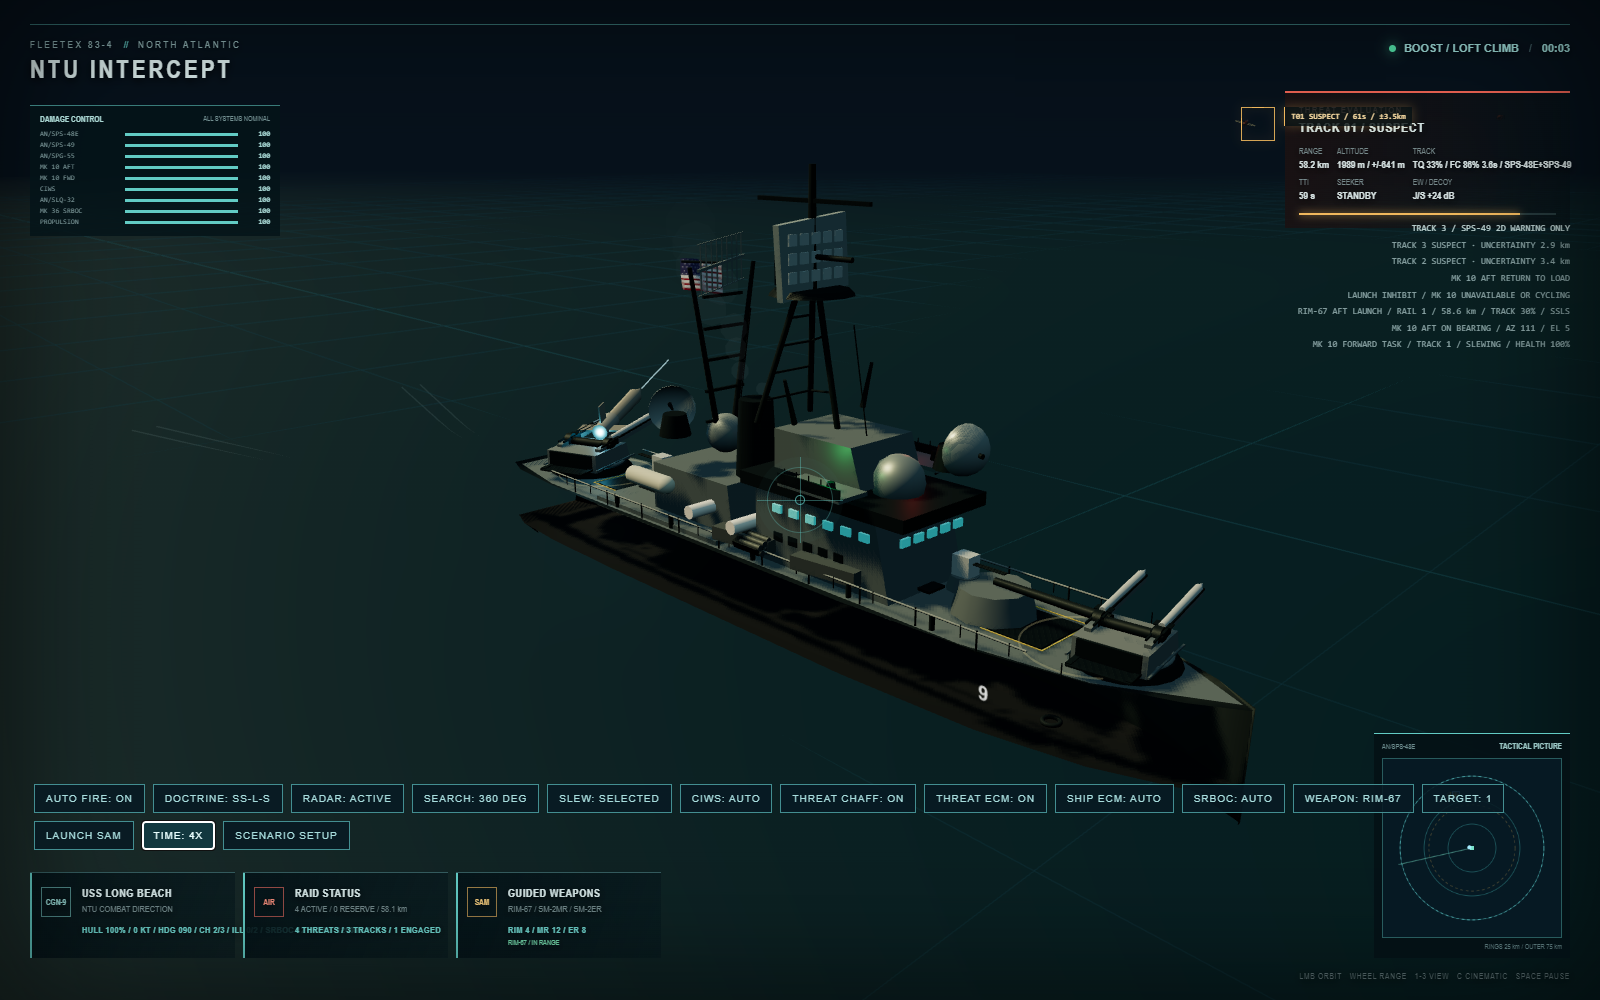
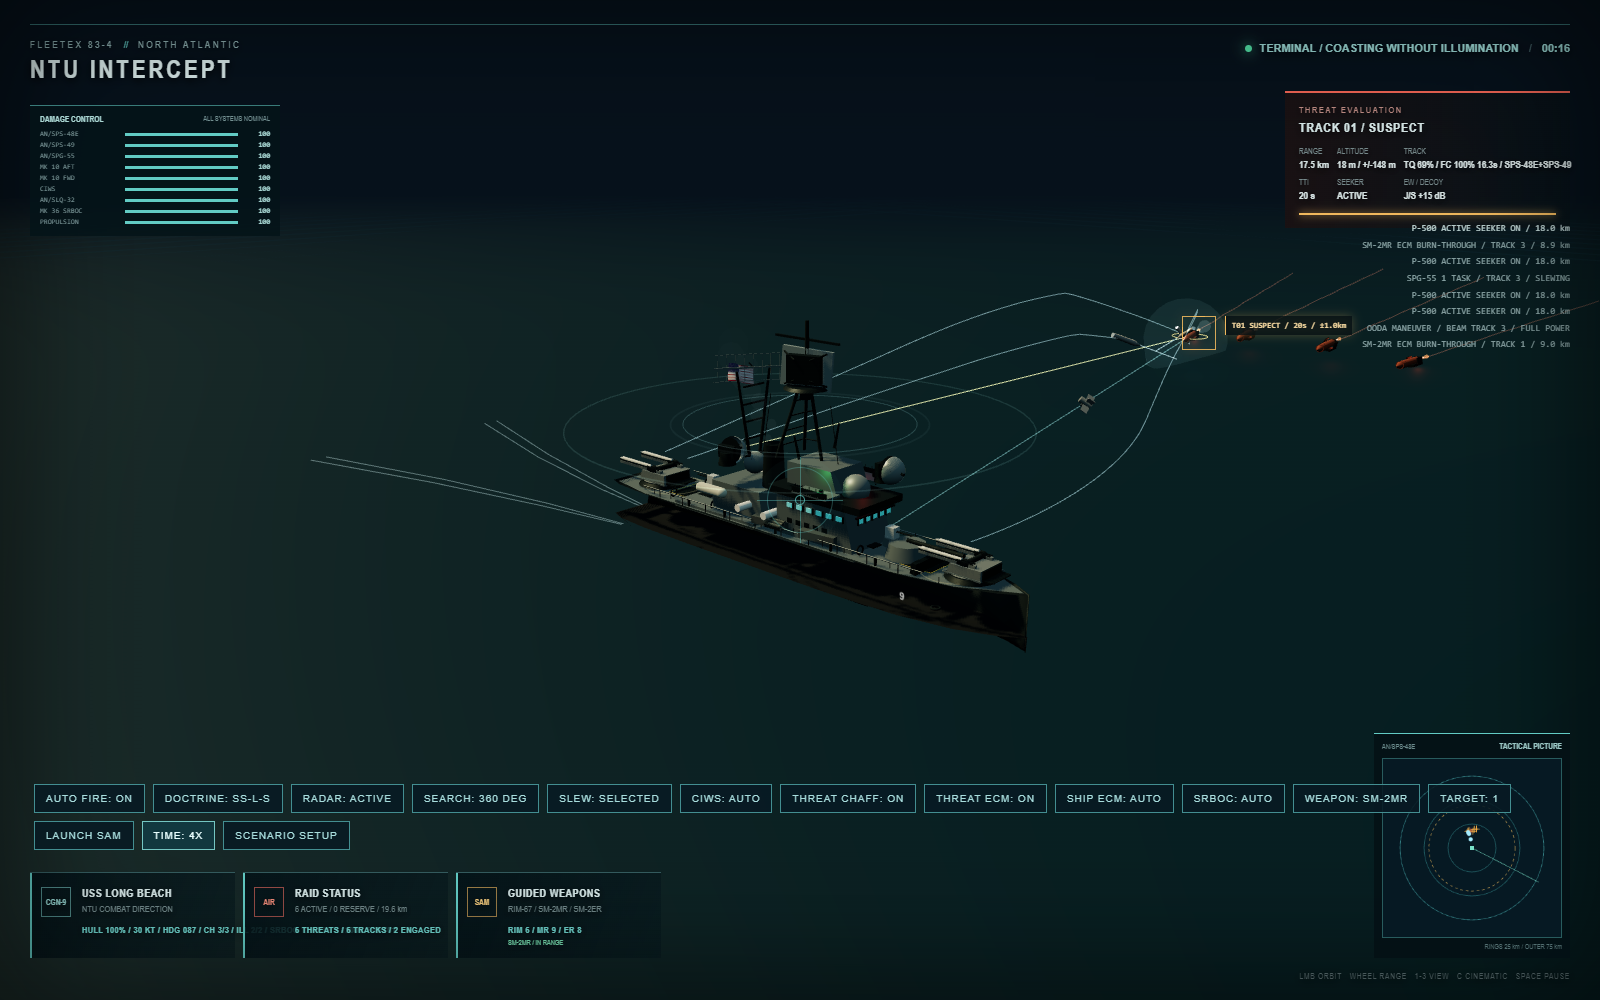
Improve ship sensors and tracking animations

diff --git a/src/main.ts b/src/main.ts
@@ -68,11 +68,11 @@ function ship(color:number,scale=1){
  const bridgeRoof=new THREE.Mesh(new THREE.BoxGeometry(13,.8,7.2),darkMat); bridgeRoof.position.set(5,11,0); g.add(bridgeRoof);
  const mast=new THREE.Group();const mastFeet=[new THREE.Vector3(-1.4,14.1,-2.25),new THREE.Vector3(-1.4,14.1,2.25),new THREE.Vector3(3.2,14.1,0)],mastCrown=[new THREE.Vector3(.45,22,-.62),new THREE.Vector3(.45,22,.62),new THREE.Vector3(1.55,22,0)];mastFeet.forEach((foot,index)=>addStrut(mast,foot,mastCrown[index],.19,darkMat));for(let y=15.5;y<21.5;y+=1.65){const fraction=(y-14.1)/7.9,port=new THREE.Vector3(THREE.MathUtils.lerp(-1.4,.45,fraction),y,THREE.MathUtils.lerp(-2.25,-.62,fraction)),starboard=new THREE.Vector3(port.x,y,-port.z);addStrut(mast,port,starboard,.075,darkMat);if(Math.round((y-15.5)/1.65)%2===0)addStrut(mast,port,new THREE.Vector3(THREE.MathUtils.lerp(3.2,1.55,fraction),y+.8,0),.07,darkMat);}const mastPlatform=new THREE.Mesh(new THREE.CylinderGeometry(2.25,2.6,.34,12),darkMat);mastPlatform.position.set(1,22,0);mast.add(mastPlatform);const upperMast=new THREE.Mesh(new THREE.CylinderGeometry(.2,.3,7.2,8),darkMat);upperMast.position.set(1,25.5,0);mast.add(upperMast);g.add(mast);
  const yard=new THREE.Mesh(new THREE.BoxGeometry(9,.24,.24),darkMat); yard.position.set(1,27.1,0); g.add(yard);
- const radar=new THREE.Group(); radar.position.set(1,24,0); const dish=new THREE.Mesh(new THREE.BoxGeometry(5.8,4.3,.45),new THREE.MeshStandardMaterial({color:0x9caaa6,metalness:.35,roughness:.52})); dish.rotation.z=.08; radar.add(dish); const backing=new THREE.Mesh(new THREE.BoxGeometry(3.8,3.1,1.1),darkMat);backing.position.z=-.65;radar.add(backing);for(let x=-2;x<=2;x++)for(let y=-1;y<=1;y++){const cell=new THREE.Mesh(new THREE.BoxGeometry(.65,.65,.12),new THREE.MeshStandardMaterial({color:0xc1cbc5,metalness:.3,roughness:.5}));cell.position.set(x,y*1.05,.3);radar.add(cell);} const feed=new THREE.Mesh(new THREE.CylinderGeometry(.16,.16,2.8,8),darkMat);feed.rotation.x=Math.PI/2;feed.position.z=1.6;radar.add(feed);g.add(radar);
+ const radar=new THREE.Group(); radar.position.set(1,24,0); const dish=new THREE.Mesh(new THREE.BoxGeometry(5.8,4.3,.45),new THREE.MeshStandardMaterial({color:0x9caaa6,metalness:.35,roughness:.52})); dish.rotation.z=.08; radar.add(dish); const backing=new THREE.Mesh(new THREE.BoxGeometry(3.8,3.1,1.1),darkMat);backing.position.z=-.65;radar.add(backing);for(let x=-2;x<=2;x++)for(let y=-1;y<=1;y++){const cell=new THREE.Mesh(new THREE.BoxGeometry(.65,.65,.12),new THREE.MeshStandardMaterial({color:0xc1cbc5,metalness:.3,roughness:.5}));cell.position.set(x,y*1.05,.3);radar.add(cell);} const feed=new THREE.Mesh(new THREE.CylinderGeometry(.16,.16,2.8,8),darkMat);feed.rotation.x=Math.PI/2;feed.position.z=1.6;radar.add(feed);for(const side of [-1,1]){addStrut(radar,new THREE.Vector3(side*2.45,-1.75,-.35),new THREE.Vector3(side*.85,-1.1,-1.45),.11,darkMat);addStrut(radar,new THREE.Vector3(side*2.45,1.75,-.35),new THREE.Vector3(side*.85,1.1,-1.45),.11,darkMat);}const radarGearbox=new THREE.Mesh(new THREE.CylinderGeometry(.48,.62,1.4,10),darkMat);radarGearbox.position.set(0,-2.55,-.45);radar.add(radarGearbox);g.add(radar);
  const fireControl=new THREE.Group(); fireControl.position.set(8,12,0); fireControl.add(new THREE.Mesh(new THREE.SphereGeometry(1.6,12,8),new THREE.MeshStandardMaterial({color:0x9ba9a6,metalness:.5,roughness:.45}))); g.add(fireControl);
  // Keep the aft Mk 10 clear of the aft-house/bridge visual envelope.
  const launcher=createMk10Launcher(deckMat,darkMat);launcher.position.set(-23,6.18,0);launcher.rotation.y=Math.PI;g.add(launcher);
- const windowMat=new THREE.MeshStandardMaterial({color:0x75d8d4,emissive:0x164b4a,emissiveIntensity:1.8}); const windows=new THREE.Group();for(let z=-2.3;z<=2.3;z+=1.15){const pane=new THREE.Mesh(new THREE.BoxGeometry(.18,.5,.72),windowMat);pane.position.set(10.58,9.6,z);windows.add(pane);}for(const side of [-1,1])for(let x=1.5;x<=8.5;x+=1.4){const pane=new THREE.Mesh(new THREE.BoxGeometry(.72,.5,.18),windowMat);pane.position.set(x,9.6,side*3.33);windows.add(pane);}g.add(windows);
+ const windowMat=new THREE.MeshStandardMaterial({color:0x75d8d4,emissive:0x164b4a,emissiveIntensity:1.8}); const windows=new THREE.Group();for(let z=-2.3;z<=2.3;z+=1.15){const pane=new THREE.Mesh(new THREE.BoxGeometry(.18,.5,.72),windowMat);pane.position.set(10.58,9.6,z);windows.add(pane);const frame=new THREE.Mesh(new THREE.BoxGeometry(.22,.72,.07),darkMat);frame.position.set(10.7,9.6,z+.52);windows.add(frame);}for(const side of [-1,1])for(let x=1.5;x<=8.5;x+=1.4){const pane=new THREE.Mesh(new THREE.BoxGeometry(.72,.5,.18),windowMat);pane.position.set(x,9.6,side*3.33);windows.add(pane);const frame=new THREE.Mesh(new THREE.BoxGeometry(.08,.72,.22),darkMat);frame.position.set(x+.62,9.6,side*3.38);windows.add(frame);}const brow=new THREE.Mesh(new THREE.BoxGeometry(.35,.18,6.3),darkMat);brow.position.set(10.72,10.08,0);windows.add(brow);g.add(windows);
  const upperBridge=new THREE.Mesh(createSlopedBoxGeometry(7,2.4,5.2,.8),deckMat); upperBridge.position.set(4,13,0); g.add(upperBridge);
  const bridgeDetails=new THREE.Group();for(const side of [-1,1]){const wing=new THREE.Mesh(new THREE.BoxGeometry(4.8,.24,2.25),deckMat);wing.position.set(6,12.05,side*4.15);bridgeDetails.add(wing);const bulwark=new THREE.Mesh(new THREE.BoxGeometry(4.8,.62,.12),darkMat);bulwark.position.set(6,12.4,side*5.22);bridgeDetails.add(bulwark);for(let x=4.1;x<=7.9;x+=.95){const post=new THREE.Mesh(new THREE.CylinderGeometry(.035,.035,.62,5),darkMat);post.position.set(x,12.7,side*5.18);bridgeDetails.add(post);}addStrut(bridgeDetails,new THREE.Vector3(4.2,11.65,side*3.55),new THREE.Vector3(4.2,12,side*5),.07,darkMat);addStrut(bridgeDetails,new THREE.Vector3(7.8,11.65,side*3.55),new THREE.Vector3(7.8,12,side*5),.07,darkMat);const pelorus=new THREE.Mesh(new THREE.CylinderGeometry(.22,.3,.55,8),darkMat);pelorus.position.set(7,12.45,side*4.45);bridgeDetails.add(pelorus);}for(const side of [-1,1])for(let x=1.5;x<=6.5;x+=1.25){const vent=new THREE.Mesh(new THREE.BoxGeometry(.72,.55,.08),darkMat);vent.position.set(x,7.8,side*3.29);bridgeDetails.add(vent);}g.add(bridgeDetails);
  const aftHouse=new THREE.Mesh(createSlopedBoxGeometry(8,3.2,6,.45),deckMat); aftHouse.position.set(-7,8.2,0); g.add(aftHouse);
@@ -90,8 +90,8 @@ function ship(color:number,scale=1){
  const forwardLauncher=launcher.clone(true);forwardLauncher.position.set(23,6.18,0);forwardLauncher.rotation.y=0;forwardLauncher.scale.setScalar(.88);forwardLauncher.userData.arms=[];forwardLauncher.traverse(o=>{if(o.name==='launcherArm')forwardLauncher.userData.arms.push(o);});g.add(forwardLauncher);
  const safetyMat=new THREE.MeshStandardMaterial({color:0xd5b64e,metalness:.2,roughness:.65});for(const [x,length] of [[-17.4,3.8],[17.7,3.35]] as const){const hatch=new THREE.Mesh(new THREE.BoxGeometry(length,.09,3.9),darkMat);hatch.position.set(x,6.16,0);g.add(hatch);for(const side of [-1,1]){const stripe=new THREE.Mesh(new THREE.BoxGeometry(length+.45,.035,.09),safetyMat);stripe.position.set(x,6.23,side*2.18);g.add(stripe);}for(const end of [-1,1]){const stripe=new THREE.Mesh(new THREE.BoxGeometry(.09,.035,4.45),safetyMat);stripe.position.set(x+end*(length+.45)/2,6.23,0);g.add(stripe);}}
  const aftMast=new THREE.Group();aftMast.position.set(-7,12,0);for(const side of [-1,1]){const leg=new THREE.Mesh(new THREE.CylinderGeometry(.14,.22,12,7),darkMat);leg.position.set(0,5,side*1.55);leg.rotation.x=side*.18;aftMast.add(leg);}for(let y=1;y<=10;y+=2){const brace=new THREE.Mesh(new THREE.BoxGeometry(.18,.18,3.2),darkMat);brace.position.y=y;aftMast.add(brace);}const sps49=new THREE.Group(),antennaMat=new THREE.MeshStandardMaterial({color:0xaab8b3,metalness:.62,roughness:.32});sps49.position.y=11;const antennaFrame=new THREE.Mesh(new THREE.BoxGeometry(9,.18,.18),antennaMat);sps49.add(antennaFrame);for(let x=-4;x<=4;x+=1){const vertical=new THREE.Mesh(new THREE.BoxGeometry(.06,3,.08),antennaMat);vertical.position.set(x,0,0);sps49.add(vertical);}for(const y of [-1.5,0,1.5]){const horizontal=new THREE.Mesh(new THREE.BoxGeometry(9,.06,.08),antennaMat);horizontal.position.y=y;sps49.add(horizontal);}const antennaFeed=new THREE.Mesh(new THREE.CylinderGeometry(.08,.08,2.6,6),darkMat);antennaFeed.rotation.x=Math.PI/2;antennaFeed.position.z=1.4;sps49.add(antennaFeed);aftMast.add(sps49);g.add(aftMast);
- const directors:THREE.Group[]=[];for(const [x,z,heading] of [[9,-3.4,-.38],[-8,3.4,2.72]] as const){const director=new THREE.Group();director.position.set(x,13,z);director.rotation.y=heading;const pedestal=new THREE.Mesh(new THREE.CylinderGeometry(.75,1.05,1.4,12),darkMat);director.add(pedestal);const dish=new THREE.Mesh(new THREE.SphereGeometry(1.55,18,10,0,Math.PI*2,0,Math.PI*.48),new THREE.MeshStandardMaterial({color:0xaab7b2,metalness:.45,roughness:.38,side:THREE.DoubleSide}));dish.rotation.z=-Math.PI/2;dish.position.set(1.1,.7,0);director.add(dish);const horn=new THREE.Mesh(new THREE.CylinderGeometry(.08,.16,1.8,8),darkMat);horn.rotation.z=Math.PI/2;horn.position.set(2,.7,0);director.add(horn);directors.push(director);g.add(director);}
- const highDetail=new THREE.Group();for(const [x,z] of [[-1,-3.7],[-1,3.7],[6,-3.7],[6,3.7]] as const){const canister=new THREE.Mesh(new THREE.BoxGeometry(4.6,.85,1.05),new THREE.MeshStandardMaterial({color:0x6d7774,metalness:.52,roughness:.48}));canister.position.set(x,7.15,z);canister.rotation.y=z>0?.12:-.12;highDetail.add(canister);}for(const [x,z] of [[-10,-4.1],[-10,4.1]] as const){const boat=new THREE.Mesh(new THREE.CapsuleGeometry(.62,3.4,4,10),new THREE.MeshStandardMaterial({color:0xc4c1ac,roughness:.68}));boat.rotation.z=Math.PI/2;boat.position.set(x,9,z);highDetail.add(boat);}for(const [x,z] of [[-14,0],[13,0]] as const){const ciws=new THREE.Group();ciws.position.set(x,7.4,z);const base=new THREE.Mesh(new THREE.CylinderGeometry(.8,1.05,.8,12),deckMat);ciws.add(base);const turret=new THREE.Mesh(new THREE.BoxGeometry(1.15,1.2,1),new THREE.MeshStandardMaterial({color:0xd2d7cf,metalness:.35,roughness:.48}));turret.position.y=1;ciws.add(turret);for(let barrelIndex=-1;barrelIndex<=1;barrelIndex++){const barrel=new THREE.Mesh(new THREE.CylinderGeometry(.045,.045,2.4,6),darkMat);barrel.rotation.z=Math.PI/2;barrel.position.set(1.45,1.18,barrelIndex*.13);ciws.add(barrel);}highDetail.add(ciws);}for(const side of [-1,1])for(let x=-20;x<=22;x+=3){const stanchion=new THREE.Mesh(new THREE.CylinderGeometry(.035,.035,.7,5),darkMat);stanchion.position.set(x,6.75,side*4.18);highDetail.add(stanchion);}const smokePuffs:THREE.Mesh[]=[];for(let i=0;i<9;i++){const puff=new THREE.Mesh(new THREE.SphereGeometry(.7,7,5),new THREE.MeshBasicMaterial({color:0x526064,transparent:true,opacity:.12,depthWrite:false}));smokePuffs.push(puff);highDetail.add(puff);}g.add(highDetail);
+ const directors:THREE.Group[]=[];for(const [x,z,heading] of [[9,-3.4,-.38],[-8,3.4,2.72]] as const){const director=new THREE.Group();director.position.set(x,13,z);director.rotation.y=heading;director.userData.stowHeading=heading;const pedestal=new THREE.Mesh(new THREE.CylinderGeometry(.75,1.05,1.4,12),darkMat);director.add(pedestal);const yoke=new THREE.Mesh(new THREE.BoxGeometry(.55,1.45,2.15),darkMat);yoke.position.y=.78;director.add(yoke);const elevationPivot=new THREE.Group();elevationPivot.position.set(0,.82,0);director.add(elevationPivot);const dishBack=new THREE.Mesh(new THREE.CylinderGeometry(1.48,1.22,.34,18),darkMat);dishBack.rotation.z=Math.PI/2;dishBack.position.x=.82;elevationPivot.add(dishBack);const dish=new THREE.Mesh(new THREE.SphereGeometry(1.55,18,10,0,Math.PI*2,0,Math.PI*.48),new THREE.MeshStandardMaterial({color:0xaab7b2,metalness:.45,roughness:.38,side:THREE.DoubleSide}));dish.rotation.z=-Math.PI/2;dish.position.x=1.05;elevationPivot.add(dish);const horn=new THREE.Mesh(new THREE.CylinderGeometry(.08,.16,1.9,8),darkMat);horn.rotation.z=Math.PI/2;horn.position.x=2;elevationPivot.add(horn);const feedTip=new THREE.Object3D();feedTip.position.x=3;elevationPivot.add(feedTip);director.userData.elevationPivot=elevationPivot;director.userData.feedTip=feedTip;directors.push(director);g.add(director);}
+ const highDetail=new THREE.Group();for(const [x,z] of [[-1,-3.7],[-1,3.7],[6,-3.7],[6,3.7]] as const){const canister=new THREE.Mesh(new THREE.BoxGeometry(4.6,.85,1.05),new THREE.MeshStandardMaterial({color:0x6d7774,metalness:.52,roughness:.48}));canister.position.set(x,7.15,z);canister.rotation.y=z>0?.12:-.12;highDetail.add(canister);}for(const [x,z] of [[-10,-4.1],[-10,4.1]] as const){const boat=new THREE.Mesh(new THREE.CapsuleGeometry(.62,3.4,4,10),new THREE.MeshStandardMaterial({color:0xc4c1ac,roughness:.68}));boat.rotation.z=Math.PI/2;boat.position.set(x,9,z);highDetail.add(boat);}for(const [x,z] of [[-14,0],[13,0]] as const){const ciws=new THREE.Group();ciws.position.set(x,7.4,z);const base=new THREE.Mesh(new THREE.CylinderGeometry(.8,1.05,.8,12),deckMat);ciws.add(base);const turret=new THREE.Mesh(new THREE.BoxGeometry(1.15,1.2,1),new THREE.MeshStandardMaterial({color:0xd2d7cf,metalness:.35,roughness:.48}));turret.position.y=1;ciws.add(turret);const elevationPivot=new THREE.Group();elevationPivot.position.set(0,1.18,0);for(let barrelIndex=-1;barrelIndex<=1;barrelIndex++){const barrel=new THREE.Mesh(new THREE.CylinderGeometry(.045,.045,2.4,6),darkMat);barrel.rotation.z=Math.PI/2;barrel.position.set(1.45,0,barrelIndex*.13);elevationPivot.add(barrel);}const radome=new THREE.Mesh(new THREE.SphereGeometry(.42,10,7),new THREE.MeshStandardMaterial({color:0xe0e3dc,roughness:.4}));radome.position.set(-.2,.6,0);ciws.add(radome);ciws.add(elevationPivot);ciws.userData.elevationPivot=elevationPivot;highDetail.add(ciws);}for(const side of [-1,1])for(let x=-20;x<=22;x+=3){const stanchion=new THREE.Mesh(new THREE.CylinderGeometry(.035,.035,.7,5),darkMat);stanchion.position.set(x,6.75,side*4.18);highDetail.add(stanchion);}const breakwater=new THREE.Mesh(createSlopedBoxGeometry(.7,1.2,7.2,.18),darkMat);breakwater.position.set(18.5,6.75,0);breakwater.rotation.z=-.18;highDetail.add(breakwater);for(const side of [-1,1])for(const x of [-18,-11,2,11]){const reel=new THREE.Mesh(new THREE.TorusGeometry(.48,.1,7,14),darkMat);reel.rotation.y=Math.PI/2;reel.position.set(x,6.65,side*2.8);highDetail.add(reel);}for(const x of [-16,-6,4,14]){const vent=new THREE.Mesh(new THREE.CylinderGeometry(.24,.3,.6,8),darkMat);vent.position.set(x,6.55,-2.4);highDetail.add(vent);}const smokePuffs:THREE.Mesh[]=[];for(let i=0;i<9;i++){const puff=new THREE.Mesh(new THREE.SphereGeometry(.7,7,5),new THREE.MeshBasicMaterial({color:0x526064,transparent:true,opacity:.12,depthWrite:false}));smokePuffs.push(puff);highDetail.add(puff);}g.add(highDetail);
  const srbocLaunchers=new THREE.Group();for(const side of [-1,1]){const station=new THREE.Group();station.position.set(0,7.25,side*4.05);station.rotation.x=side*.42;const base=new THREE.Mesh(new THREE.BoxGeometry(2.2,.5,1.25),darkMat);station.add(base);for(let row=0;row<2;row++)for(let column=0;column<3;column++){const tube=new THREE.Mesh(new THREE.CylinderGeometry(.16,.19,1.8,8),new THREE.MeshStandardMaterial({color:0x687473,metalness:.62,roughness:.4}));tube.rotation.z=Math.PI/2;tube.position.set(.35,row*.42-.2,column*.38-.38);station.add(tube);}srbocLaunchers.add(station);}highDetail.add(srbocLaunchers);
  const ewPulse=new THREE.Group();for(let i=0;i<3;i++){const ring=new THREE.Mesh(new THREE.TorusGeometry(12+i*8,.08,6,72),new THREE.MeshBasicMaterial({color:0x66e5dc,transparent:true,opacity:0,depthWrite:false,blending:THREE.AdditiveBlending}));ring.rotation.x=Math.PI/2;ring.position.y=18;ewPulse.add(ring);}for(const side of [-1,1]){const ewAntenna=new THREE.Mesh(new THREE.CylinderGeometry(.1,.18,2.8,8),darkMat);ewAntenna.position.set(2.5,16.2,side*3.25);ewAntenna.rotation.x=side*.28;g.add(ewAntenna);}ewPulse.visible=false;g.add(ewPulse);
  highDetail.children.filter(o=>Math.abs(o.position.y-7.4)<.01&&Math.abs(o.position.z)<.01).forEach(o=>{o.name=o.position.x>0?'ciwsFore':'ciwsAft';o.rotation.y=o.position.x>0?0:Math.PI;});
@@ -286,9 +286,21 @@ function updateShipManeuver(dt:number){
 function updateShipStatus(){const active=interceptors.filter(i=>i.mesh.visible).length+pendingLauncherRequests().length,illuminated=interceptors.filter(i=>i.mesh.visible&&i.illuminated).length,shipClouds=chaffClouds.filter(c=>c.side==='ship').length,forward=new THREE.Vector3(1,0,0).applyAxisAngle(new THREE.Vector3(0,1,0),defender.rotation.y),heading=(THREE.MathUtils.radToDeg(Math.atan2(forward.x,-forward.z))+360)%360,effectiveIlluminators=Math.min(maxIlluminators,illuminators.length,Math.ceil(illuminators.length*subsystemHealth('spg55'))),queue=illuminators.slice(0,effectiveIlluminators).map(state=>state.target?`T${String(missiles.indexOf(state.target.target)+1).padStart(2,'0')}`:'--').join('/');document.querySelector('#shipState')!.textContent=`HULL ${hullIntegrity}% / ${shipSpeedKnots.toFixed(0)} KT / HDG ${heading.toFixed(0).padStart(3,'0')} / CH ${active}/${maxSamChannels} / ILL ${illuminated}/${effectiveIlluminators} / SRBOC ${srbocRounds} / CIWS ${ciwsRounds} / ${queue||'--'}`;}
 log('16:42:08  NTU combat system initialized'); log('16:42:11  SURFACE SEARCH RADAR — CONTACTS ACQUIRED');
 function updateCamera(){if(cinematic)az+=.0018;let focus:THREE.Vector3;if(viewMode===1)focus=defender.position.clone().add(new THREE.Vector3(0,9,0));else if(viewMode===3){const track=combatPicture.trackForTarget(selectedTargetId);focus=track?defender.position.clone().lerp(track.position,.52):defender.position.clone().add(new THREE.Vector3(0,8,-80));}else focus=new THREE.Vector3(defender.position.x,8,defender.position.z-80);const x=Math.cos(el)*Math.sin(az)*dist,z=Math.cos(el)*Math.cos(az)*dist;camera.position.set(focus.x+x,focus.y+Math.sin(el)*dist,focus.z+z);camera.lookAt(focus);}
-setInterval(()=>{if(defender.userData.radar){const t=performance.now()*.001;defender.userData.radar.rotation.y+=.04*subsystemHealth('sps48');defender.userData.sps49.rotation.y-=.025*subsystemHealth('sps49');defender.userData.fireControl.rotation.y=Math.sin(t)*.3*subsystemHealth('spg55');defender.userData.directors?.forEach((director:THREE.Group,index:number)=>director.rotation.y+=(index?-.003:.003)*subsystemHealth('spg55'));}},50);
-setInterval(()=>{if(subsystemHealth('ciws')<=.05)return;for(const mount of [{name:'FORE',model:defender.getObjectByName('ciwsFore'),heading:Math.PI/2},{name:'AFT',model:defender.getObjectByName('ciwsAft'),heading:-Math.PI/2}]){if(!mount.model)continue;const candidate=missiles.filter(m=>{if(m.phase==='destroyed'||!m.mesh.visible||m.mesh.position.distanceTo(defender.position)>=24)return false;const relative=m.mesh.position.clone().sub(defender.position),bearing=Math.atan2(relative.x,relative.z),closing=-m.velocity.dot(relative.clone().normalize());return closing>.5&&Math.abs(angleDifference(bearing,mount.heading))<=THREE.MathUtils.degToRad(105);}).sort((a,b)=>{const ar=a.mesh.position.clone().sub(defender.position),br=b.mesh.position.clone().sub(defender.position),at=ar.length()/Math.max(.5,-a.velocity.dot(ar.normalize())),bt=br.length()/Math.max(.5,-b.velocity.dot(br.normalize()));return at-bt;})[0];if(!candidate)continue;const relative=candidate.mesh.position.clone().sub(defender.position),desired=Math.atan2(-relative.z,relative.x),delta=angleDifference(desired,mount.model.rotation.y);mount.model.rotation.y+=THREE.MathUtils.clamp(delta,-THREE.MathUtils.degToRad(70)*.05,THREE.MathUtils.degToRad(70)*.05);}},50);
 function angleDifference(a:number,b:number){return Math.atan2(Math.sin(a-b),Math.cos(a-b));}
+function aimLocal(model:THREE.Object3D,target:THREE.Vector3,dt:number,yawRate:number,pitchRate:number){
+ const local=model.parent!.worldToLocal(target.clone()).sub(model.position),desiredYaw=Math.atan2(-local.z,local.x),yawStep=yawRate*dt;
+ model.rotation.y+=THREE.MathUtils.clamp(angleDifference(desiredYaw,model.rotation.y),-yawStep,yawStep);
+ const pivot=model.userData.elevationPivot as THREE.Group|undefined;if(!pivot)return;
+ const desiredPitch=THREE.MathUtils.clamp(Math.atan2(local.y,Math.hypot(local.x,local.z)),THREE.MathUtils.degToRad(-8),THREE.MathUtils.degToRad(72)),pitchStep=pitchRate*dt;
+ pivot.rotation.z+=THREE.MathUtils.clamp(desiredPitch-pivot.rotation.z,-pitchStep,pitchStep);
+}
+function updateShipWeaponVisuals(dt:number){
+ const sps48=subsystemHealth('sps48'),sps49=subsystemHealth('sps49'),spg55=subsystemHealth('spg55');
+ defender.userData.radar.rotation.y+=dt*.8*sps48;defender.userData.sps49.rotation.y-=dt*.5*sps49;
+ defender.userData.fireControl.rotation.y=Math.sin(elapsed*.7)*.3*spg55;
+ const directors=defender.userData.directors as THREE.Group[];directors.forEach((director,index)=>{const state=illuminators[index],target=state?.target?.target;if(target&&target.phase!=='destroyed'&&spg55>.05)aimLocal(director,target.mesh.position,dt,THREE.MathUtils.degToRad(55)*(.25+.75*spg55),THREE.MathUtils.degToRad(38)*(.25+.75*spg55));else{const stow=director.userData.stowHeading as number,pivot=director.userData.elevationPivot as THREE.Group;director.rotation.y+=THREE.MathUtils.clamp(angleDifference(stow,director.rotation.y),-dt*.22*spg55,dt*.22*spg55);pivot.rotation.z=THREE.MathUtils.lerp(pivot.rotation.z,0,Math.min(1,dt*1.5));}});
+ const ciwsHealth=subsystemHealth('ciws');for(const mount of [{model:defender.getObjectByName('ciwsFore'),heading:Math.PI/2},{model:defender.getObjectByName('ciwsAft'),heading:-Math.PI/2}]){if(!mount.model)continue;const candidate=missiles.filter(m=>{if(m.phase==='destroyed'||!m.mesh.visible||m.mesh.position.distanceTo(defender.position)>=24)return false;const relative=m.mesh.position.clone().sub(defender.position),bearing=Math.atan2(relative.x,relative.z),closing=-m.velocity.dot(relative.clone().normalize());return closing>.5&&Math.abs(angleDifference(bearing,mount.heading))<=THREE.MathUtils.degToRad(105);}).sort((a,b)=>a.mesh.position.distanceTo(defender.position)-b.mesh.position.distanceTo(defender.position))[0];if(candidate&&ciwsHealth>.05)aimLocal(mount.model,candidate.mesh.position,dt,THREE.MathUtils.degToRad(70)*ciwsHealth,THREE.MathUtils.degToRad(55)*ciwsHealth);else{const pivot=mount.model.userData.elevationPivot as THREE.Group|undefined;if(pivot)pivot.rotation.z=THREE.MathUtils.lerp(pivot.rotation.z,0,Math.min(1,dt*2));}}
+}
 function scheduleIlluminators(candidates:Interceptor[],dt:number){
  const health=subsystemHealth('spg55'),active=candidates.filter(i=>i.mesh.visible&&i.target.phase!=='destroyed'),limit=health<=.05?0:Math.min(maxIlluminators,illuminators.length,Math.max(1,Math.ceil(illuminators.length*health)));
  illuminators.forEach((state,index)=>{if(index>=limit||!state.target||!active.includes(state.target))state.target=null;});
@@ -299,8 +311,8 @@ function scheduleIlluminators(candidates:Interceptor[],dt:number){
   if(free){free.target=interceptor;const id=missiles.indexOf(interceptor.target)+1;if(free.lastTargetId!==id){free.lastTargetId=id;log(`SPG-55 ${free.id} TASK / TRACK ${id} / SLEWING`);}}
  }
  const slewRate=THREE.MathUtils.degToRad(55)*(.25+.75*health);
- const capturedTargets=new Set<Missile>();for(const state of illuminators.slice(0,limit)){const interceptor=state.target;if(!interceptor)continue;const desired=Math.atan2(interceptor.target.mesh.position.x-defender.position.x,interceptor.target.mesh.position.z-defender.position.z),delta=angleDifference(desired,state.azimuth);state.azimuth+=THREE.MathUtils.clamp(delta,-slewRate*dt,slewRate*dt);const captured=Math.abs(delta)<THREE.MathUtils.degToRad(14);if(captured)capturedTargets.add(interceptor.target);interceptor.illuminated=captured;interceptor.illuminationBeam.visible=captured;if(captured){interceptor.illuminationBeam.geometry.dispose();interceptor.illuminationBeam.geometry=new THREE.BufferGeometry().setFromPoints([defender.position.clone().add(new THREE.Vector3(8,13,0)),interceptor.target.mesh.position.clone()]);}}
- for(const interceptor of active)if(capturedTargets.has(interceptor.target)){interceptor.illuminated=true;interceptor.illuminationBeam.visible=true;interceptor.illuminationBeam.geometry.dispose();interceptor.illuminationBeam.geometry=new THREE.BufferGeometry().setFromPoints([defender.position.clone().add(new THREE.Vector3(8,13,0)),interceptor.target.mesh.position.clone()]);}
+ const capturedTargets=new Map<Missile,number>();for(const [index,state] of illuminators.slice(0,limit).entries()){const interceptor=state.target;if(!interceptor)continue;const desired=Math.atan2(interceptor.target.mesh.position.x-defender.position.x,interceptor.target.mesh.position.z-defender.position.z),delta=angleDifference(desired,state.azimuth);state.azimuth+=THREE.MathUtils.clamp(delta,-slewRate*dt,slewRate*dt);const captured=Math.abs(delta)<THREE.MathUtils.degToRad(14);if(captured)capturedTargets.set(interceptor.target,index);interceptor.illuminated=captured;interceptor.illuminationBeam.visible=captured;}
+ for(const interceptor of active){const directorIndex=capturedTargets.get(interceptor.target);if(directorIndex===undefined)continue;interceptor.illuminated=true;interceptor.illuminationBeam.visible=true;const director=(defender.userData.directors as THREE.Group[])[directorIndex],feed=director.userData.feedTip as THREE.Object3D,origin=new THREE.Vector3();feed.getWorldPosition(origin);interceptor.illuminationBeam.geometry.dispose();interceptor.illuminationBeam.geometry=new THREE.BufferGeometry().setFromPoints([origin,interceptor.target.mesh.position.clone()]);}
  for(const interceptor of interceptors)if(!active.includes(interceptor)){interceptor.illuminated=false;interceptor.illuminationBeam.visible=false;}
 }
 function updateCiws(){
@@ -409,7 +421,7 @@ function tick(now:number){
  if(running){simAccumulator+=realDt*timeScale;while(simAccumulator>=.05&&running){elapsed+=.05;updateCombat(.05);missiles.forEach(m=>updateIncomingMissile(m,.05));captureAarSnapshot();simAccumulator-=.05;}const activeMissiles=missiles.filter(m=>m.phase!=='destroyed'&&elapsed>=m.launchAt),live=activeMissiles.length,distances=activeMissiles.map(m=>m.mesh.position.distanceTo(defender.position));document.querySelector('#targetCount')!.textContent=`${live} ACTIVE / ${missiles.filter(m=>m.phase!=='destroyed').length-live} RESERVE / ${distances.length?(Math.max(...distances)/10).toFixed(1):'0.0'} km`;}
  for(let i=0;i<seaPositions.count;i++){const p=i*3,x=seaBase[p],y=seaBase[p+1];seaPositions.setZ(i,Math.sin(x*.026+elapsed*.72)*.48+Math.sin(y*.019-elapsed*.54)*.34+Math.sin((x+y)*.011+elapsed*.31)*.2);}seaPositions.needsUpdate=true;if(++waveFrame%8===0)seaGeometry.computeVertexNormals();const ewPulse=defender.userData.ewPulse as THREE.Group|undefined,ewThreat=missiles.some(m=>m.mesh.visible&&m.phase==='terminal'),ecmHealth=subsystemHealth('ecm');if(ewPulse){ewPulse.visible=shipEcmEnabled&&ecmHealth>.05&&ewThreat;ewPulse.children.forEach((ring,index)=>{const phase=(elapsed*.72+index/3)%1,material=(ring as THREE.Mesh).material;if(material instanceof THREE.MeshBasicMaterial){ring.scale.setScalar(.55+phase*.8);material.opacity=.2*(1-phase)*ecmHealth;}});}
  missiles.forEach((m,index)=>{if(!m.mesh.visible)return;const pulse=.88+Math.sin(elapsed*19+index*1.7)*.12;(m.mesh.userData.exhaust as THREE.Mesh|undefined)?.scale.set(1,pulse,1);(m.mesh.userData.hotCore as THREE.Mesh|undefined)?.scale.setScalar(.9+pulse*.12);(m.mesh.userData.seaMist as THREE.Mesh|undefined)?.scale.set(1+pulse*.12,1+pulse*.28,1+pulse*.12);const shock=m.mesh.userData.shockCone as THREE.Mesh|undefined;if(shock)(shock.material as THREE.MeshBasicMaterial).opacity=.09+pulse*.035;});
- clockEl.textContent=`${String(Math.floor(elapsed/60)).padStart(2,'0')}:${String(Math.floor(elapsed%60)).padStart(2,'0')}`;updateCamera();if(defender.userData.highDetail)defender.userData.highDetail.visible=camera.position.distanceTo(defender.position)<270;defender.userData.smokePuffs?.forEach((puff:THREE.Mesh,index:number)=>{const life=(elapsed*.22+index/9)%1;puff.position.set(-4-life*7,15+life*11,Math.sin(index*2.1+life*4)*.8);puff.scale.setScalar(.55+life*2.1);(puff.material as THREE.MeshBasicMaterial).opacity=.13*(1-life);});if(defender.userData.flag){const flagPositions=defender.userData.flag.geometry.attributes.position as THREE.BufferAttribute;for(let i=0;i<flagPositions.count;i++){const x=flagPositions.getX(i),y=flagPositions.getY(i),free=-x/3.8;flagPositions.setZ(i,Math.sin(elapsed*5+x*2.8+y*.7)*.34*free);}flagPositions.needsUpdate=true;}shipDamageEffects.forEach(effect=>{effect.fire.scale.setScalar(.8+Math.sin(elapsed*13+effect.seed)*.22);effect.light.intensity=3.5+Math.sin(elapsed*17+effect.seed)*1.5;effect.smoke.forEach((puff,index)=>{const life=(elapsed*.28+index/effect.smoke.length+effect.seed)%1;puff.position.set(-life*2,1+life*9,Math.sin(effect.seed+index*1.7)*.7);puff.scale.setScalar(.5+life*2.4);(puff.material as THREE.MeshBasicMaterial).opacity=.32*(1-life);});});updateTargetMarker();renderer.render(scene,camera);requestAnimationFrame(tick);
+ clockEl.textContent=`${String(Math.floor(elapsed/60)).padStart(2,'0')}:${String(Math.floor(elapsed%60)).padStart(2,'0')}`;updateShipWeaponVisuals(realDt);updateCamera();if(defender.userData.highDetail)defender.userData.highDetail.visible=camera.position.distanceTo(defender.position)<270;defender.userData.smokePuffs?.forEach((puff:THREE.Mesh,index:number)=>{const life=(elapsed*.22+index/9)%1;puff.position.set(-4-life*7,15+life*11,Math.sin(index*2.1+life*4)*.8);puff.scale.setScalar(.55+life*2.1);(puff.material as THREE.MeshBasicMaterial).opacity=.13*(1-life);});if(defender.userData.flag){const flagPositions=defender.userData.flag.geometry.attributes.position as THREE.BufferAttribute;for(let i=0;i<flagPositions.count;i++){const x=flagPositions.getX(i),y=flagPositions.getY(i),free=-x/3.8;flagPositions.setZ(i,Math.sin(elapsed*5+x*2.8+y*.7)*.34*free);}flagPositions.needsUpdate=true;}shipDamageEffects.forEach(effect=>{effect.fire.scale.setScalar(.8+Math.sin(elapsed*13+effect.seed)*.22);effect.light.intensity=3.5+Math.sin(elapsed*17+effect.seed)*1.5;effect.smoke.forEach((puff,index)=>{const life=(elapsed*.28+index/effect.smoke.length+effect.seed)%1;puff.position.set(-life*2,1+life*9,Math.sin(effect.seed+index*1.7)*.7);puff.scale.setScalar(.5+life*2.4);(puff.material as THREE.MeshBasicMaterial).opacity=.32*(1-life);});});updateTargetMarker();renderer.render(scene,camera);requestAnimationFrame(tick);
 }
 requestAnimationFrame(tick);
 addEventListener('resize',()=>{camera.aspect=innerWidth/innerHeight;camera.updateProjectionMatrix();renderer.setSize(innerWidth,innerHeight)});